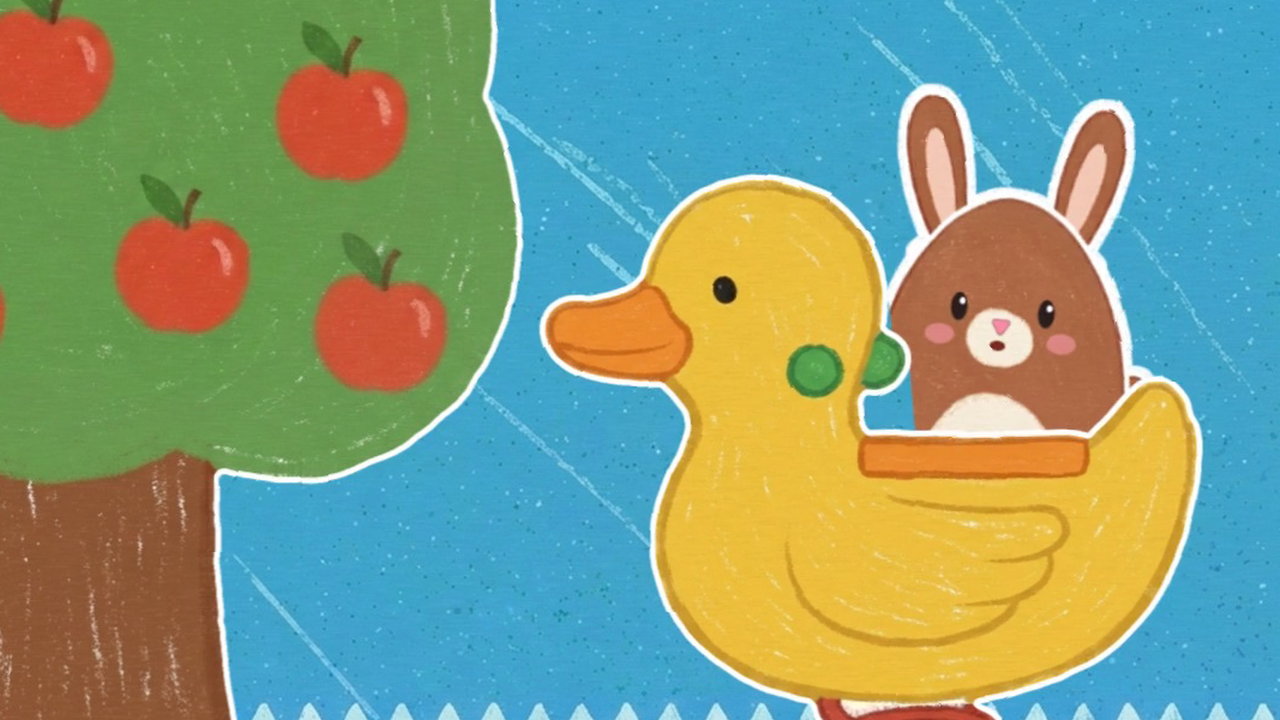
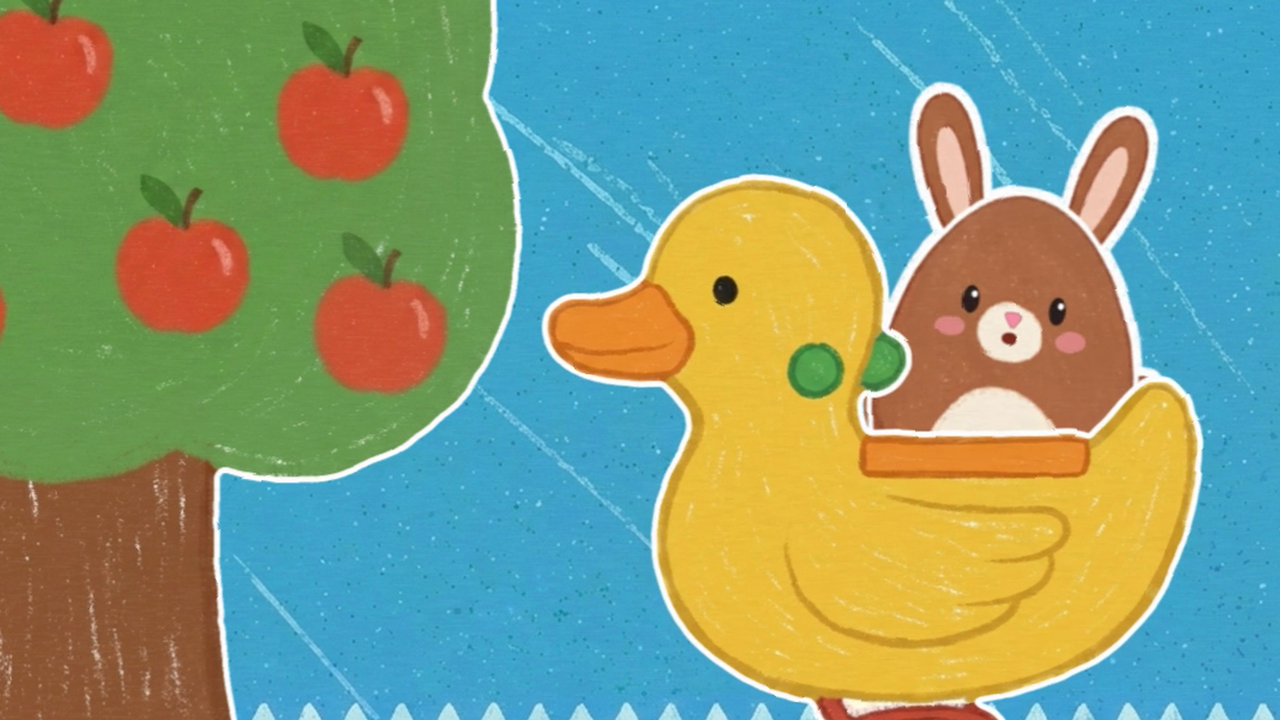
Tittut kaninen på lekplatsen: publicerad, miniatyr ur slutfilmen
YouTube-texten med kapitel och länken (https://youtu.be/Pox882T99NM).
Miniatyren tagen om ur slutfilmen (0:38,8, hela ansiktet över gungandens
rygg, utan den blå fläcken) och längden 2:38 i miniatyr.html.

diff --git a/verktyg/miniatyr.html b/verktyg/miniatyr.html
@@ -60,8 +60,8 @@ const MINIATYRER = [
     en:{ tid:'2:26', titel:['Peekaboo!','at the playground'], yt:'Peekaboo! 🐆 | Play peekaboo with the leopard at the playground | Tiny Crayon TV' } },
   { id:'tittut-hund', bild:'produktion/youtube/tittut/lekplatsen/hunden-hugo/thumbnail/miniatyr-utan-text.png', farg:'#C54433',   // utsnitt 1:1 ur 1920-bilden (skarpare än zoom); lekstugans röda tak (gömstället som är nytt i filmen), lila är leopardens
     sv:{ tid:'2:36', titel:['Tittut!','vid lekstugan'], yt:'Tittut! 🐶 | Lek tittut med hunden på lekplatsen | lilla kritan' } },   // bara svenska än
-  { id:'tittut-kanin-lekplats', bild:'produktion/youtube/tittut/lekplatsen/kaninen/thumbnail/miniatyr-utan-text.png', farg:'#ECBF3D',   // filmen 0:39,2 spegelvänd, ×1,2 ur 1920-bilden; gunganden gul (nytt gömställe)
-    sv:{ tid:'2:39', titel:['Tittut!','vid anden'], yt:'Tittut! 🐰 | Lek tittut med kaninen på lekplatsen | lilla kritan' } },   // bara svenska än; tid ur förhandsvisningen, ändra efter slutrenderingen
+  { id:'tittut-kanin-lekplats', bild:'produktion/youtube/tittut/lekplatsen/kaninen/thumbnail/miniatyr-utan-text.png', farg:'#ECBF3D',   // slutfilmen 0:38,8 spegelvänd, ×1,2 ur 1920-bilden; gunganden gul (nytt gömställe)
+    sv:{ tid:'2:38', titel:['Tittut!','vid anden'], yt:'Tittut! 🐰 | Lek tittut med kaninen på lekplatsen | lilla kritan' } },   // bara svenska än
   { id:'015', bild:'avsnitt/015-ba-ba-vita-lamm/thumbnail/miniatyr-utan-text.png', farg:'#E05E60',
     sv:{ tid:'1:29', titel:['Bä, bä,','vita lamm'], yt:'Bä, bä, vita lamm 🐑🧦 | Barnvisa om lammet som får strumpor | Lilla Kritan' } },   // bara svenska
   { id:'014', bild:'avsnitt/014-grona-traktorn/thumbnail/miniatyr-utan-text.png', farg:'#3E9B35',

diff --git a/produktion/youtube/tittut/lekplatsen/kaninen/youtube.md b/produktion/youtube/tittut/lekplatsen/kaninen/youtube.md
@@ -1,0 +1,46 @@
+# YouTube – Tittut: kaninen på lekplatsen (art direction v2)
+
+Kanal: **lilla kritan**. Publicerad 11 nov 2026: https://youtu.be/Pox882T99NM. Spellista "Tittut – lek tittut med djuren". Fil: `kaninen.mp4` (2:38, renderad 11 nov 2026). Miniatyr: `thumbnail/miniatyr-strimma.png` (färgstrimman, gunganden gul; utan text `thumbnail/miniatyr-utan-text.png`). Ställ in **Ja, det är gjort för barn**.
+
+Lekplatsen med gunganden, det stora äppelträdet och sandlådan. Malins egna tagningar finns i `assets/ljud/roster/tittut/kanin-lekplats/` (rost.txt här).
+
+## Titel
+
+```
+Tittut! 🐰 | Lek tittut med kaninen på lekplatsen | lilla kritan
+```
+
+## Beskrivning
+
+```
+Borta! … Tittut! Kaninen gömmer sig bakom gunganden, i sandlådan och bakom äppelträdet, och kommer fram igen, varje gång. Ibland syns två långa öron först. Kan du säga "tittut!" innan kaninen kommer?
+
+Tittut för de minsta, ungefär 1–2 år: samma rytm om och om igen, borta – paus – tittut, så att barnet vet vad som ska hända och kan säga det själv.
+
+0:00 Tittut!
+0:09 Hej kaninen!
+0:25 Bakom anden
+0:47 I sanden
+1:08 Bakom trädet
+1:28 En gång till!
+1:52 Var kommer kaninen fram?
+2:14 Hej då!
+
+lilla kritan är tecknade sånger och lekar i vaxkrita för små barn: en sak i taget och mycket upprepning.
+
+#tittut #barnprogram #lillakritan
+```
+
+## Taggar
+
+```
+tittut, titt ut, leka tittut, tittut för bebisar, borta tittut, gömma sig, kurragömma, kanin, kaninen, lekplats, gunganka, gungdjur, sandlåda, äppelträd, djur, tecknat för barn, barnprogram, för de minsta, småbarn, bebis, 1 år, 2 år, objektpermanens, lilla kritan
+```
+
+## Inställningar
+
+- Målgrupp: Ja, det är gjort för barn
+- Spellista: Tittut – lek tittut med djuren
+- Kategori: samma som 007
+- Språk: svenska
+- Synlighet: Offentlig
